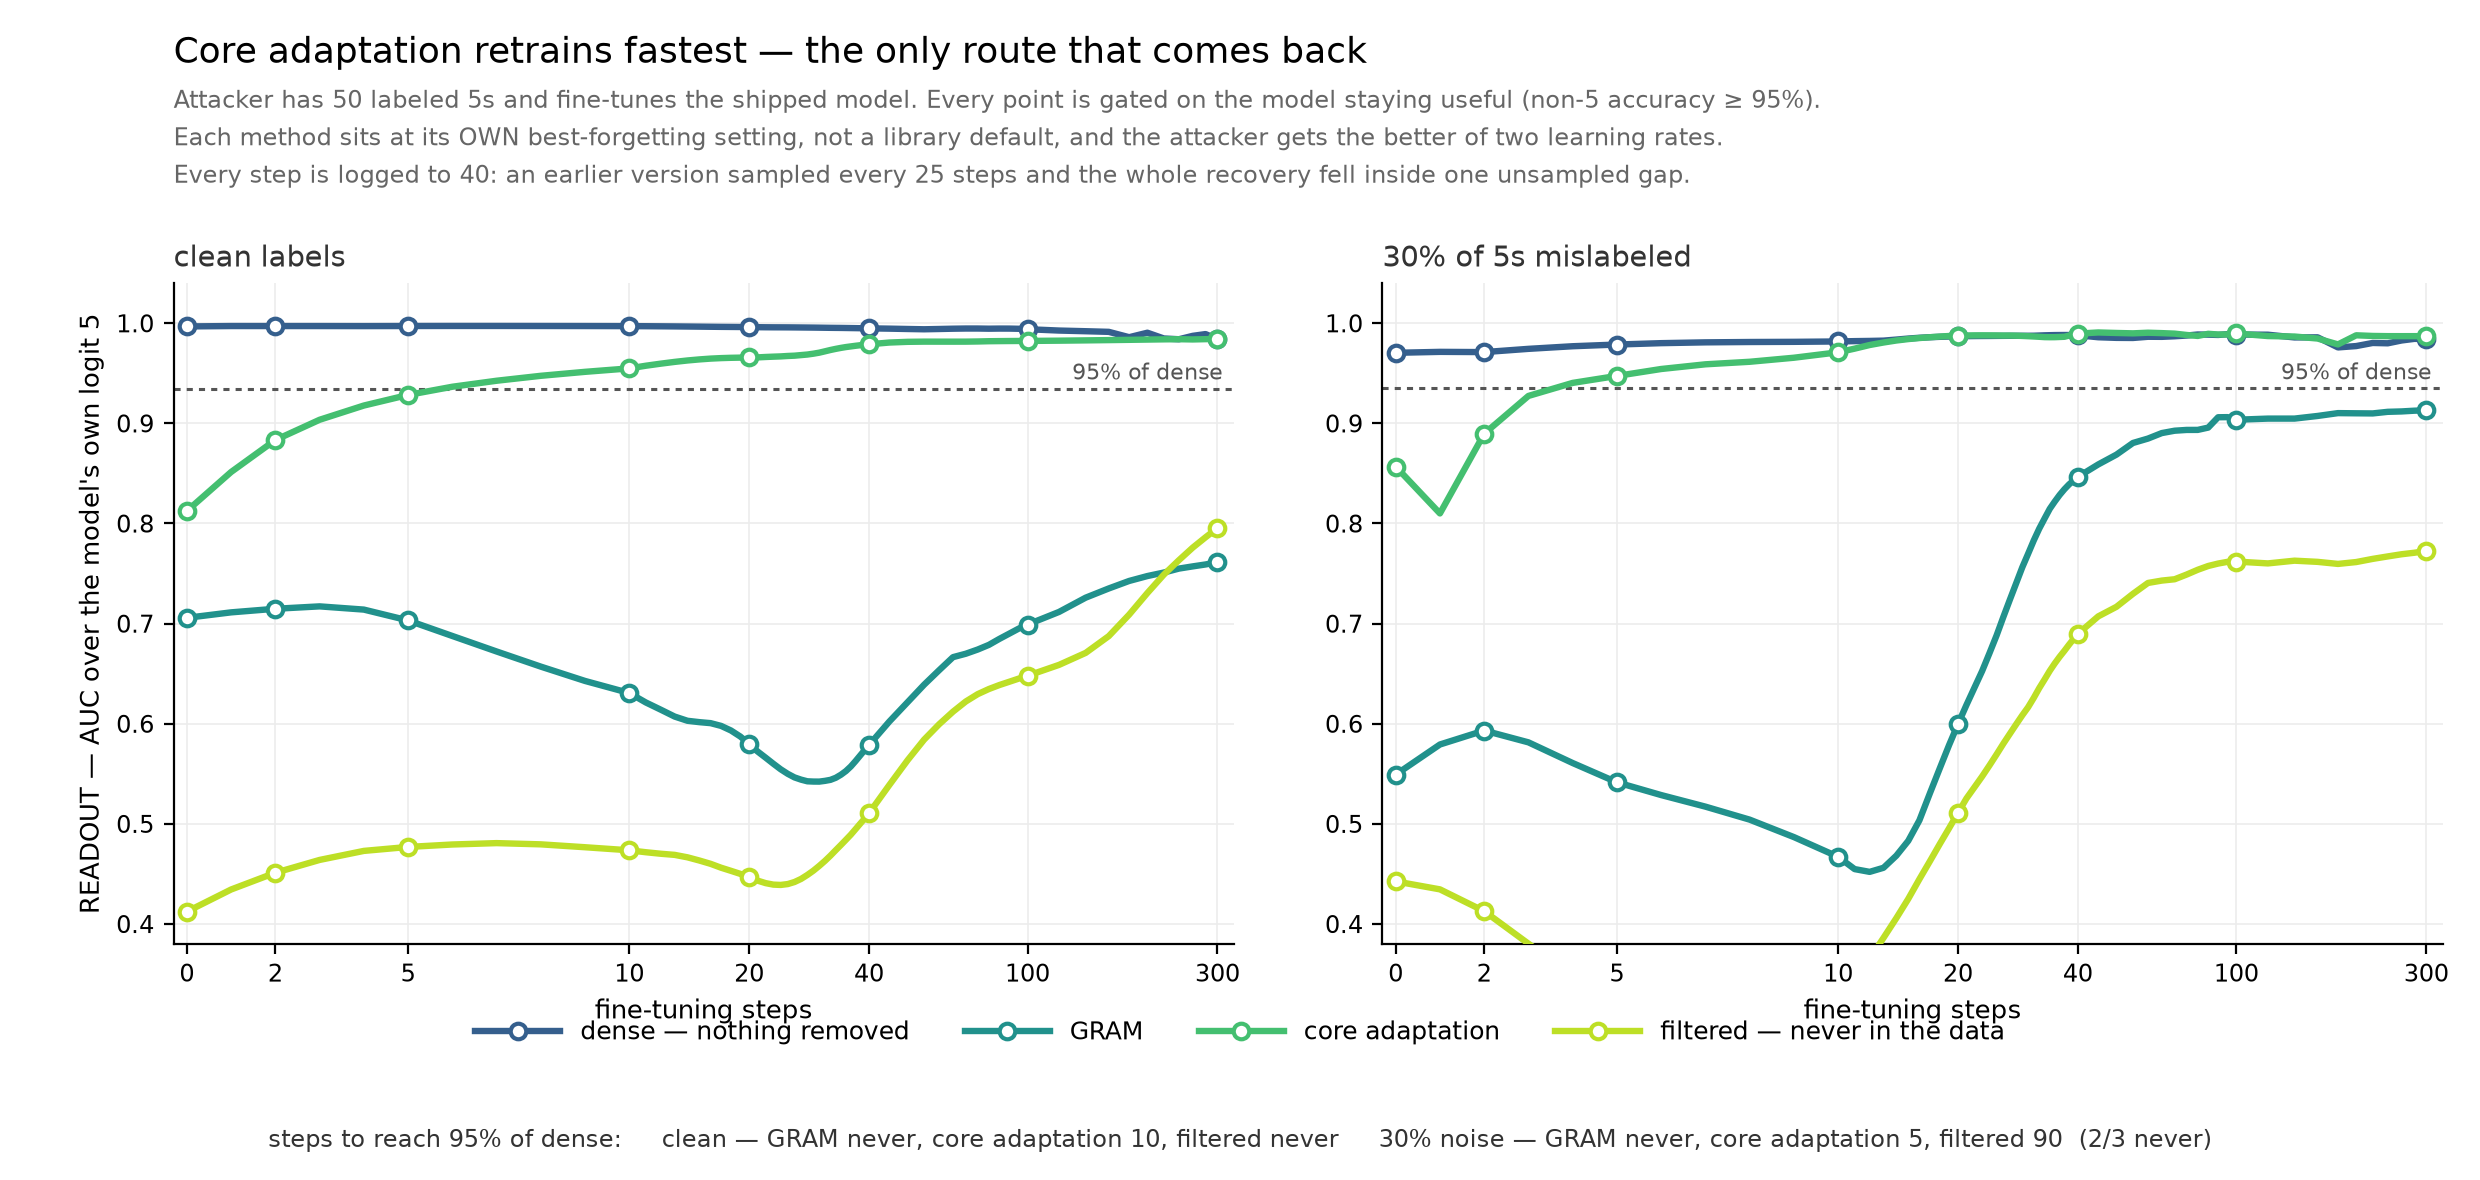
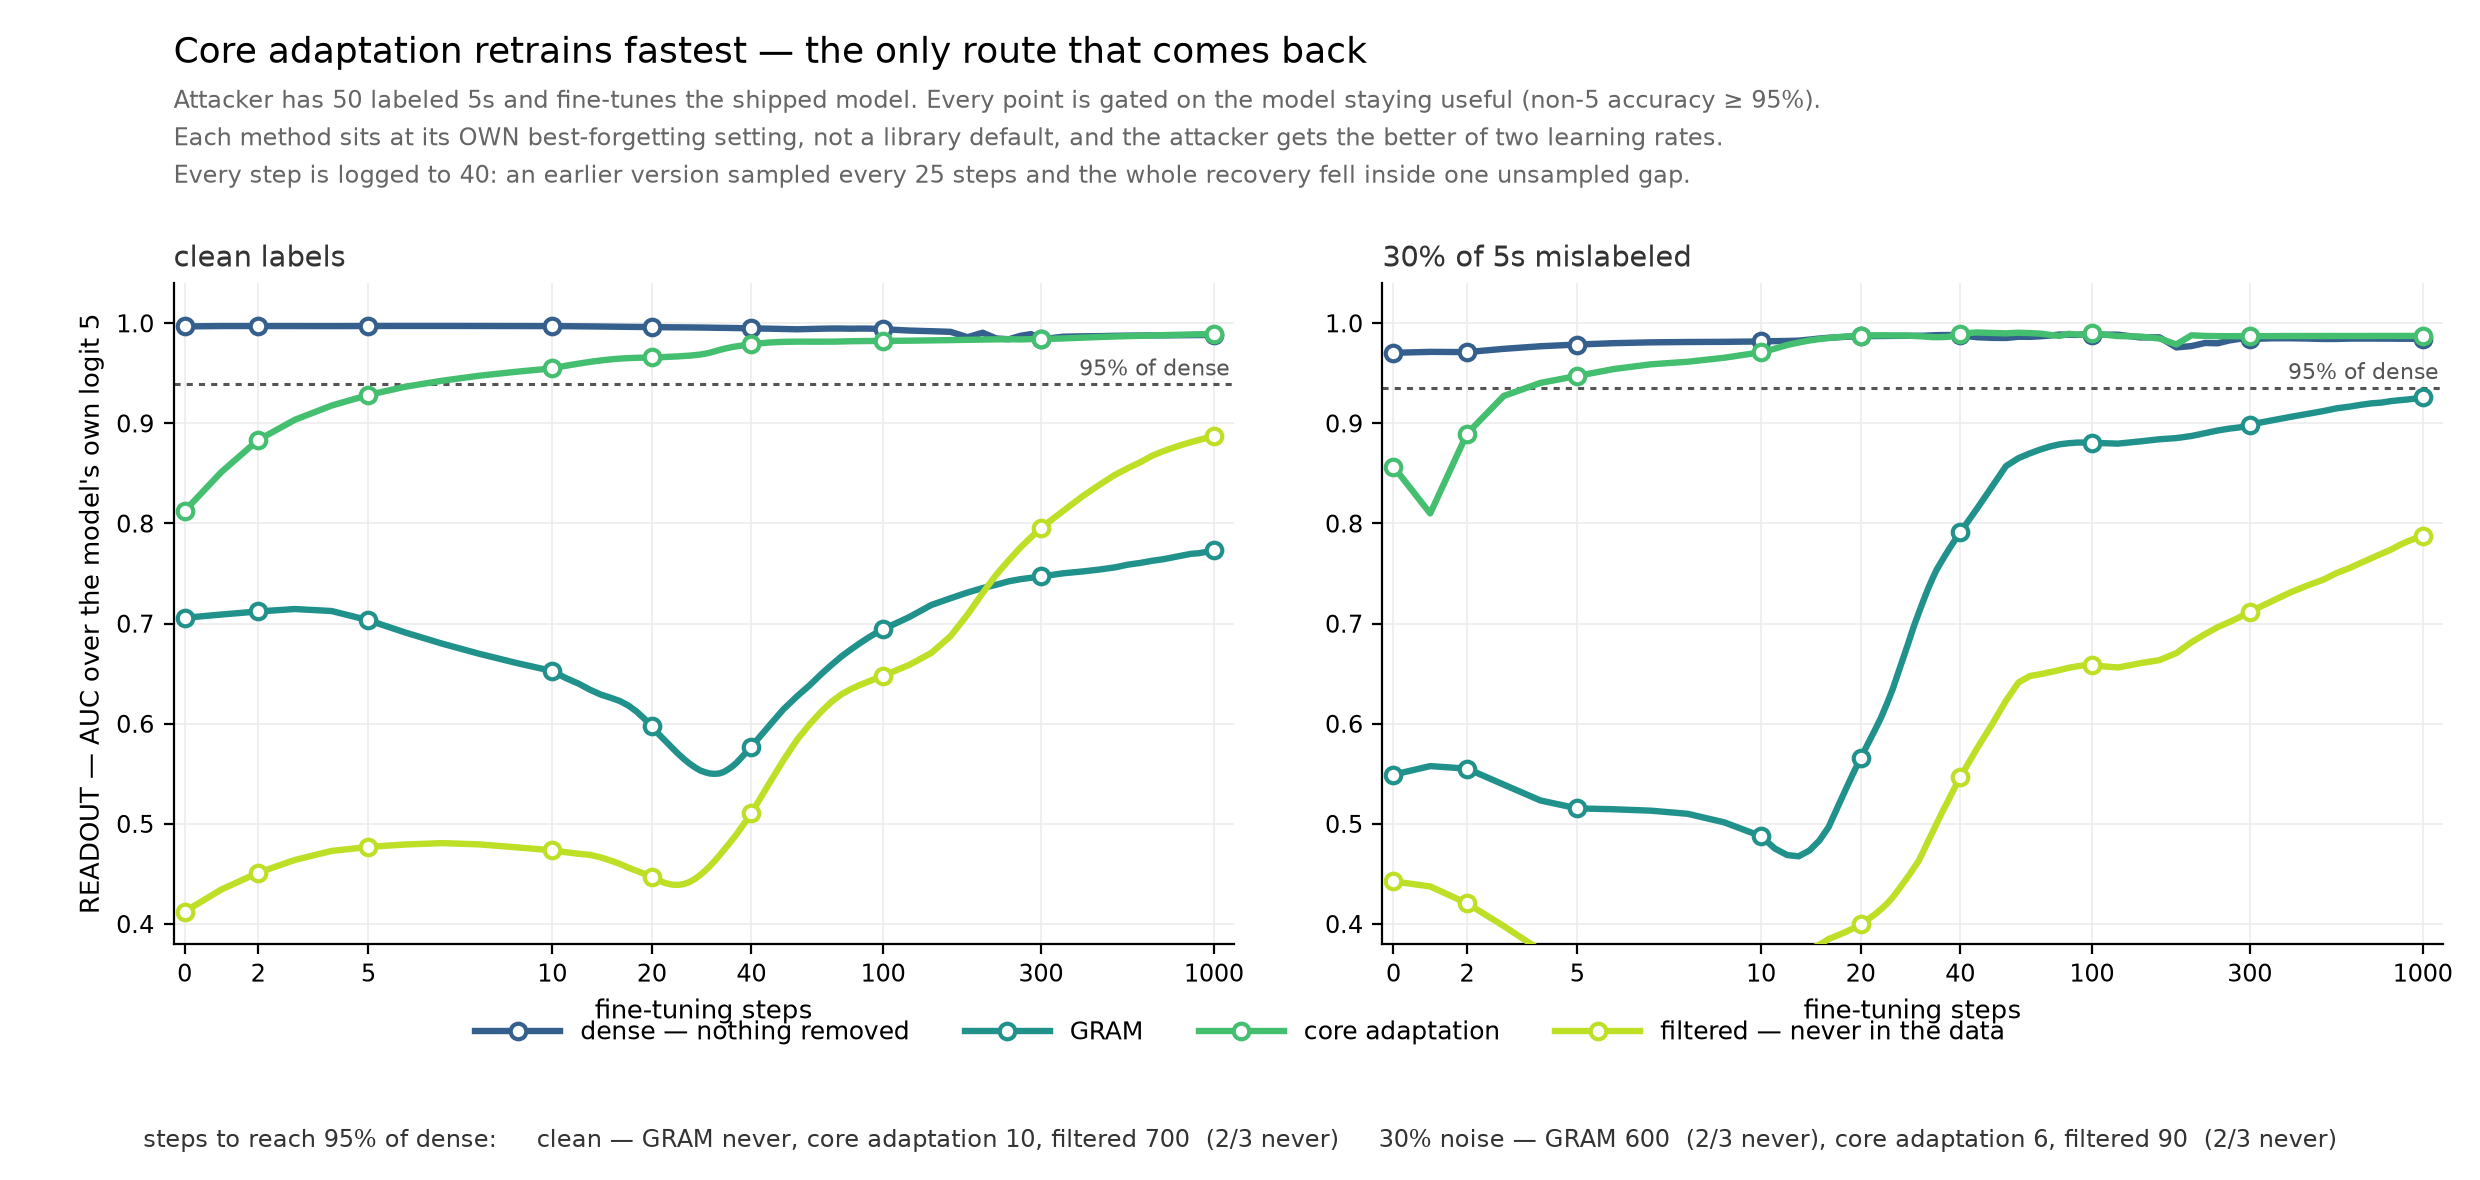
Extend the retraining figure's axis to the 1000-step budget it now has
The data was rerun to 1000 steps but the figure kept a 330-step xlim, so it silently
truncated two thirds of the run -- including GRAM's 600-step recovery under noise, which
is the whole reason the budget was raised. Ticks and limit now reach 1000, and the
caption no longer describes the old 300-step schedule.

diff --git a/figs_retrain_curve.py b/figs_retrain_curve.py
@@ -32,7 +32,7 @@ for f in glob.glob(f"{HERE}/results/rc_r*_best.json"):
 ARMS = ["dense", "gram", "coreadapt", "filtered"]
 RATES = sorted(runs)
 INK, GREY = L.C["ink"], L.C["grey"]
-TICKS = [0, 2, 5, 10, 20, 40, 100, 300]
+TICKS = [0, 2, 5, 10, 20, 40, 100, 300, 1000]
 
 fig, axes = plt.subplots(1, len(RATES), figsize=(12.4, 5.9), dpi=200, squeeze=False)
 fig.subplots_adjust(left=0.070, right=0.985, top=0.760, bottom=0.200, wspace=0.14)
@@ -44,7 +44,7 @@ for col, rate in enumerate(RATES):
     dense_end = np.mean([d["curves"]["dense"][-1][1] for d in ds if "dense" in d["curves"]])
     tgt = 0.95 * dense_end
     ax.axhline(tgt, color="#555555", lw=1.1, ls=(0, (2, 2)), zorder=2)
-    ax.text(310, tgt + 0.009, "95% of dense", fontsize=8.0, color="#555555", ha="right")
+    ax.text(1120, tgt + 0.009, "95% of dense", fontsize=8.0, color="#555555", ha="right")
 
     for key in ARMS:
         cs = [d["curves"][key] for d in ds if key in d["curves"]]
@@ -66,7 +66,7 @@ for col, rate in enumerate(RATES):
     ax.set_xscale("symlog", linthresh=10)
     ax.set_xticks(TICKS)
     ax.set_xticklabels([str(t) for t in TICKS], fontsize=8.6)
-    ax.set_xlim(-0.3, 330)
+    ax.set_xlim(-0.3, 1150)
     ax.set_ylim(0.38, 1.04)
     ax.set_xlabel("fine-tuning steps", fontsize=9.4)
     if col == 0:
